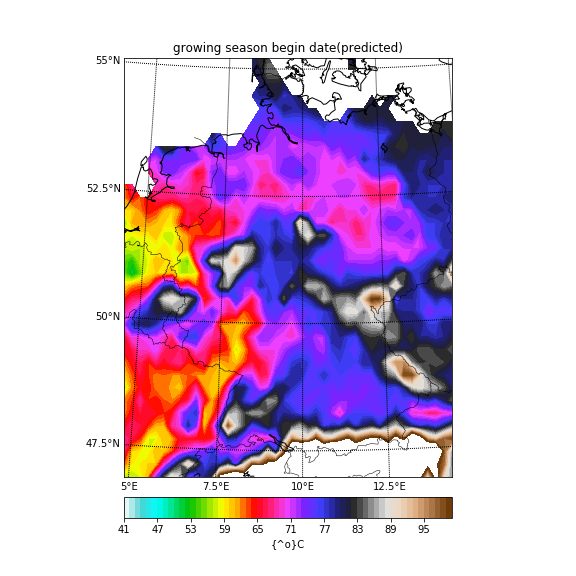
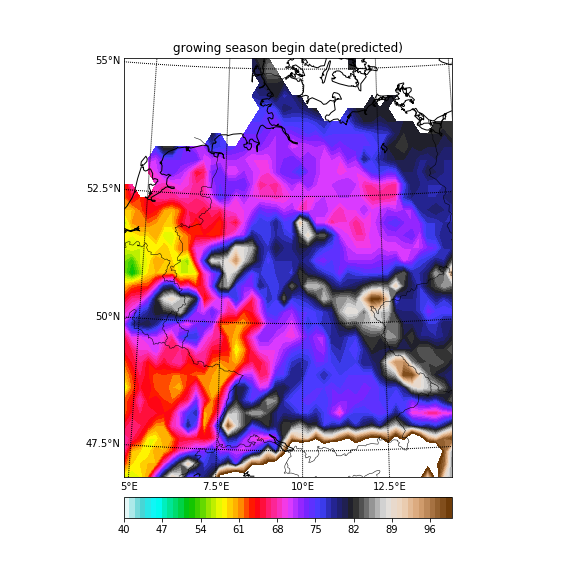
revise

diff --git a/untitled0.py b/untitled0.py
@@ -28,7 +28,7 @@ with np.load('/Users/qimindeng/research/Germany/GermanyT.npz') as data:#open the
     lat=data['lat']
     lon=data['lon']
     
-data=np.transpose(gl-4)
+data=np.transpose(rmse)
 lon_0 = (lon[0]+lon[-1])/2
 lat_0 = (lat[0]+lat[-1])/2
 
@@ -54,16 +54,16 @@ ny = data.shape[0]; nx = data.shape[1]
 lons, lats = m.makegrid(nx, ny) # get lat/lons of ny by nx evenly space grid.
 x, y = m(lons, lats) # compute map proj coordinates.
 # draw filled contours.
-clevs=np.linspace(190,280,91)
-#clevs=np.linspace(np.nanmin(data),np.nanmax(data),20)
+#clevs=np.linspace(290,330,41)
+clevs=np.linspace(np.nanmin(data),np.nanmax(data),20)
 #clevs = [6,6.5,7,7.5,8,8.5,9,9.5,10,10.5,11,11.5,12]
 cs = m.contourf(x,y,data,clevs,cmap=cm.s3pcpn_l)
 # add colorbar.
 cbar = m.colorbar(cs,location='bottom',pad="5%")
-cbar.set_label('{^o}C')
+#cbar.set_label('days')
 # add title
-plt.title('growing season length(real)')
-filename = "gl.png"
+plt.title('root mean square error')
+filename = "rmse.png"
 plt.savefig(filename)
 plt.show()
  
